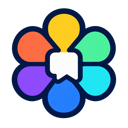
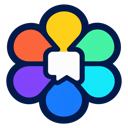
design: unify extension branding

Changed region(s): [[0.0312, 0.0312, 0.9688, 0.9688], [0.3438, 0.6562, 0.375, 0.6875]]

diff --git a/tests/optionsStructure.test.ts b/tests/optionsStructure.test.ts
@@ -19,6 +19,16 @@ test("opens settings from an accessible popup header button", async () => {
   assert.match(popup, /lc-popup__settings-button/);
 });
 
+test("uses the extension image icon in popup and settings branding", async () => {
+  const popup = await readFile(new URL("../src/popup.tsx", import.meta.url), "utf8");
+  const options = await readFile(new URL("../src/options.tsx", import.meta.url), "utf8");
+
+  assert.match(popup, /<img alt="" aria-hidden="true" className="lc-popup__logo" src="icon128\.png"/);
+  assert.match(options, /<img alt="" aria-hidden="true" className="lc-options__logo" src="icon128\.png"/);
+  assert.doesNotMatch(popup, /className="lc-popup__logo">六/);
+  assert.doesNotMatch(options, /className="lc-options__logo">六/);
+});
+
 test("keeps cloud auth neutral until the stored session status is loaded", async () => {
   const popup = await readFile(new URL("../src/popup.tsx", import.meta.url), "utf8");
   const localization = await readFile(new URL("../src/shared/localization.ts", import.meta.url), "utf8");

diff --git a/src/options.tsx b/src/options.tsx
@@ -171,7 +171,7 @@ function OptionsApp() {
     <main className="lc-options">
       <header className="lc-options__header">
         <div className="lc-options__brand">
-          <div aria-hidden="true" className="lc-options__logo">六</div>
+          <img alt="" aria-hidden="true" className="lc-options__logo" src="icon128.png" />
           <div>
             <p className="lc-options__eyebrow">六彩 Liucai</p>
             <h1>{copy.settings}</h1>

diff --git a/src/popup.tsx b/src/popup.tsx
@@ -114,7 +114,7 @@ function PopupApp() {
     <main className="lc-popup">
       <header className="lc-popup__header">
         <div className="lc-popup__brand">
-          <div className="lc-popup__logo">六</div>
+          <img alt="" aria-hidden="true" className="lc-popup__logo" src="icon128.png" />
           <div>
             <h1>六彩 Liucai</h1>
             <p>{copy.tagline}</p>

diff --git a/src/options.css b/src/options.css
@@ -37,16 +37,10 @@ select {
 }
 
 .lc-options__logo {
-  align-items: center;
-  background: #0f172a;
-  border-radius: 16px;
-  color: #ffffff;
-  display: flex;
+  display: block;
   flex: 0 0 auto;
-  font-size: 23px;
-  font-weight: 800;
   height: 48px;
-  justify-content: center;
+  object-fit: contain;
   width: 48px;
 }
 

diff --git a/src/popup.css b/src/popup.css
@@ -28,15 +28,10 @@ body {
 }
 
 .lc-popup__logo {
-  align-items: center;
-  background: #0f172a;
-  border-radius: 14px;
-  color: #fff;
-  display: flex;
-  font-size: 20px;
-  font-weight: 800;
+  display: block;
+  flex: 0 0 auto;
   height: 42px;
-  justify-content: center;
+  object-fit: contain;
   width: 42px;
 }
 
